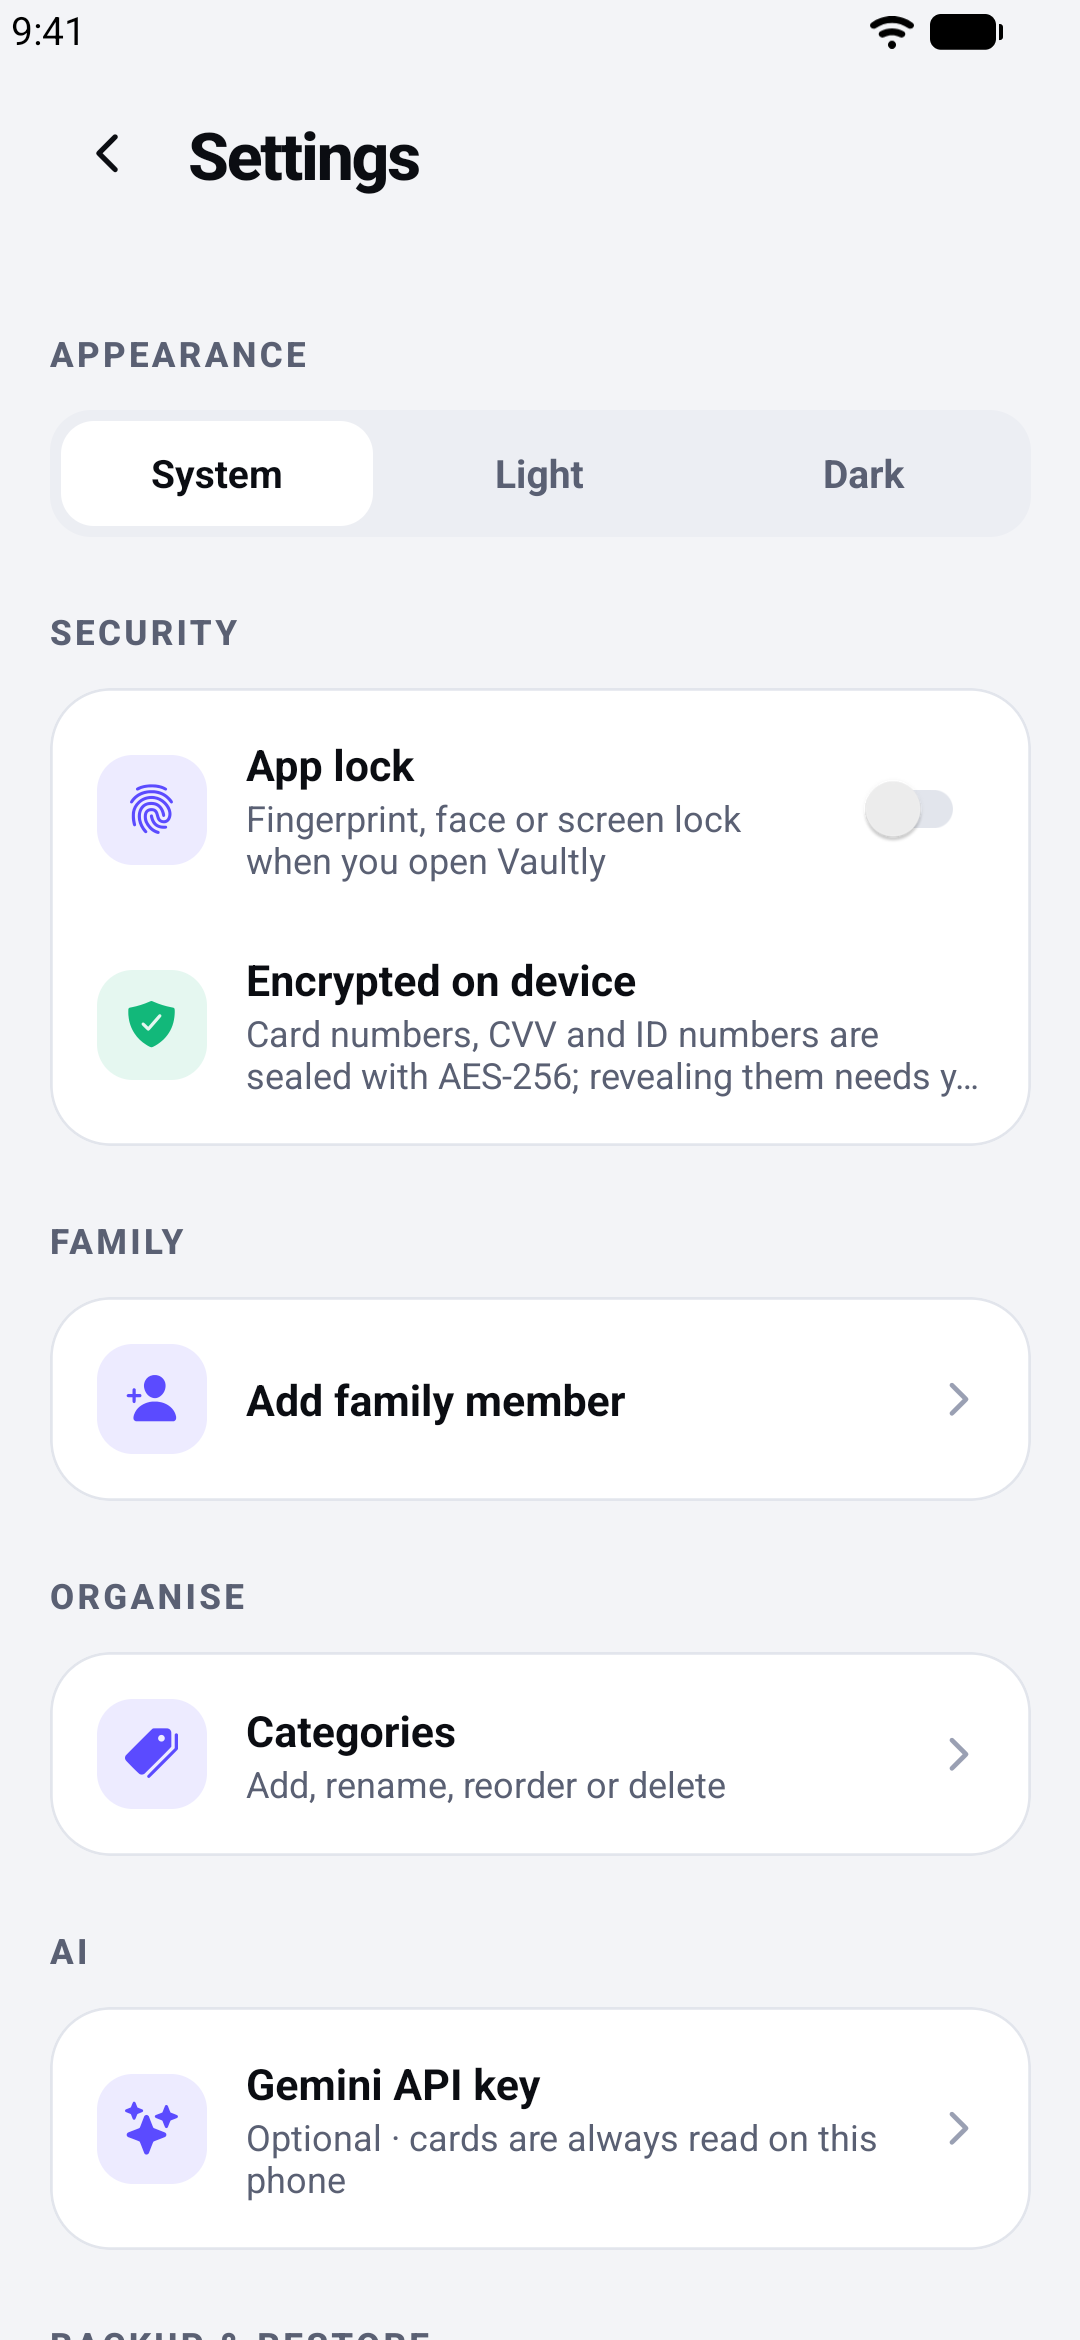
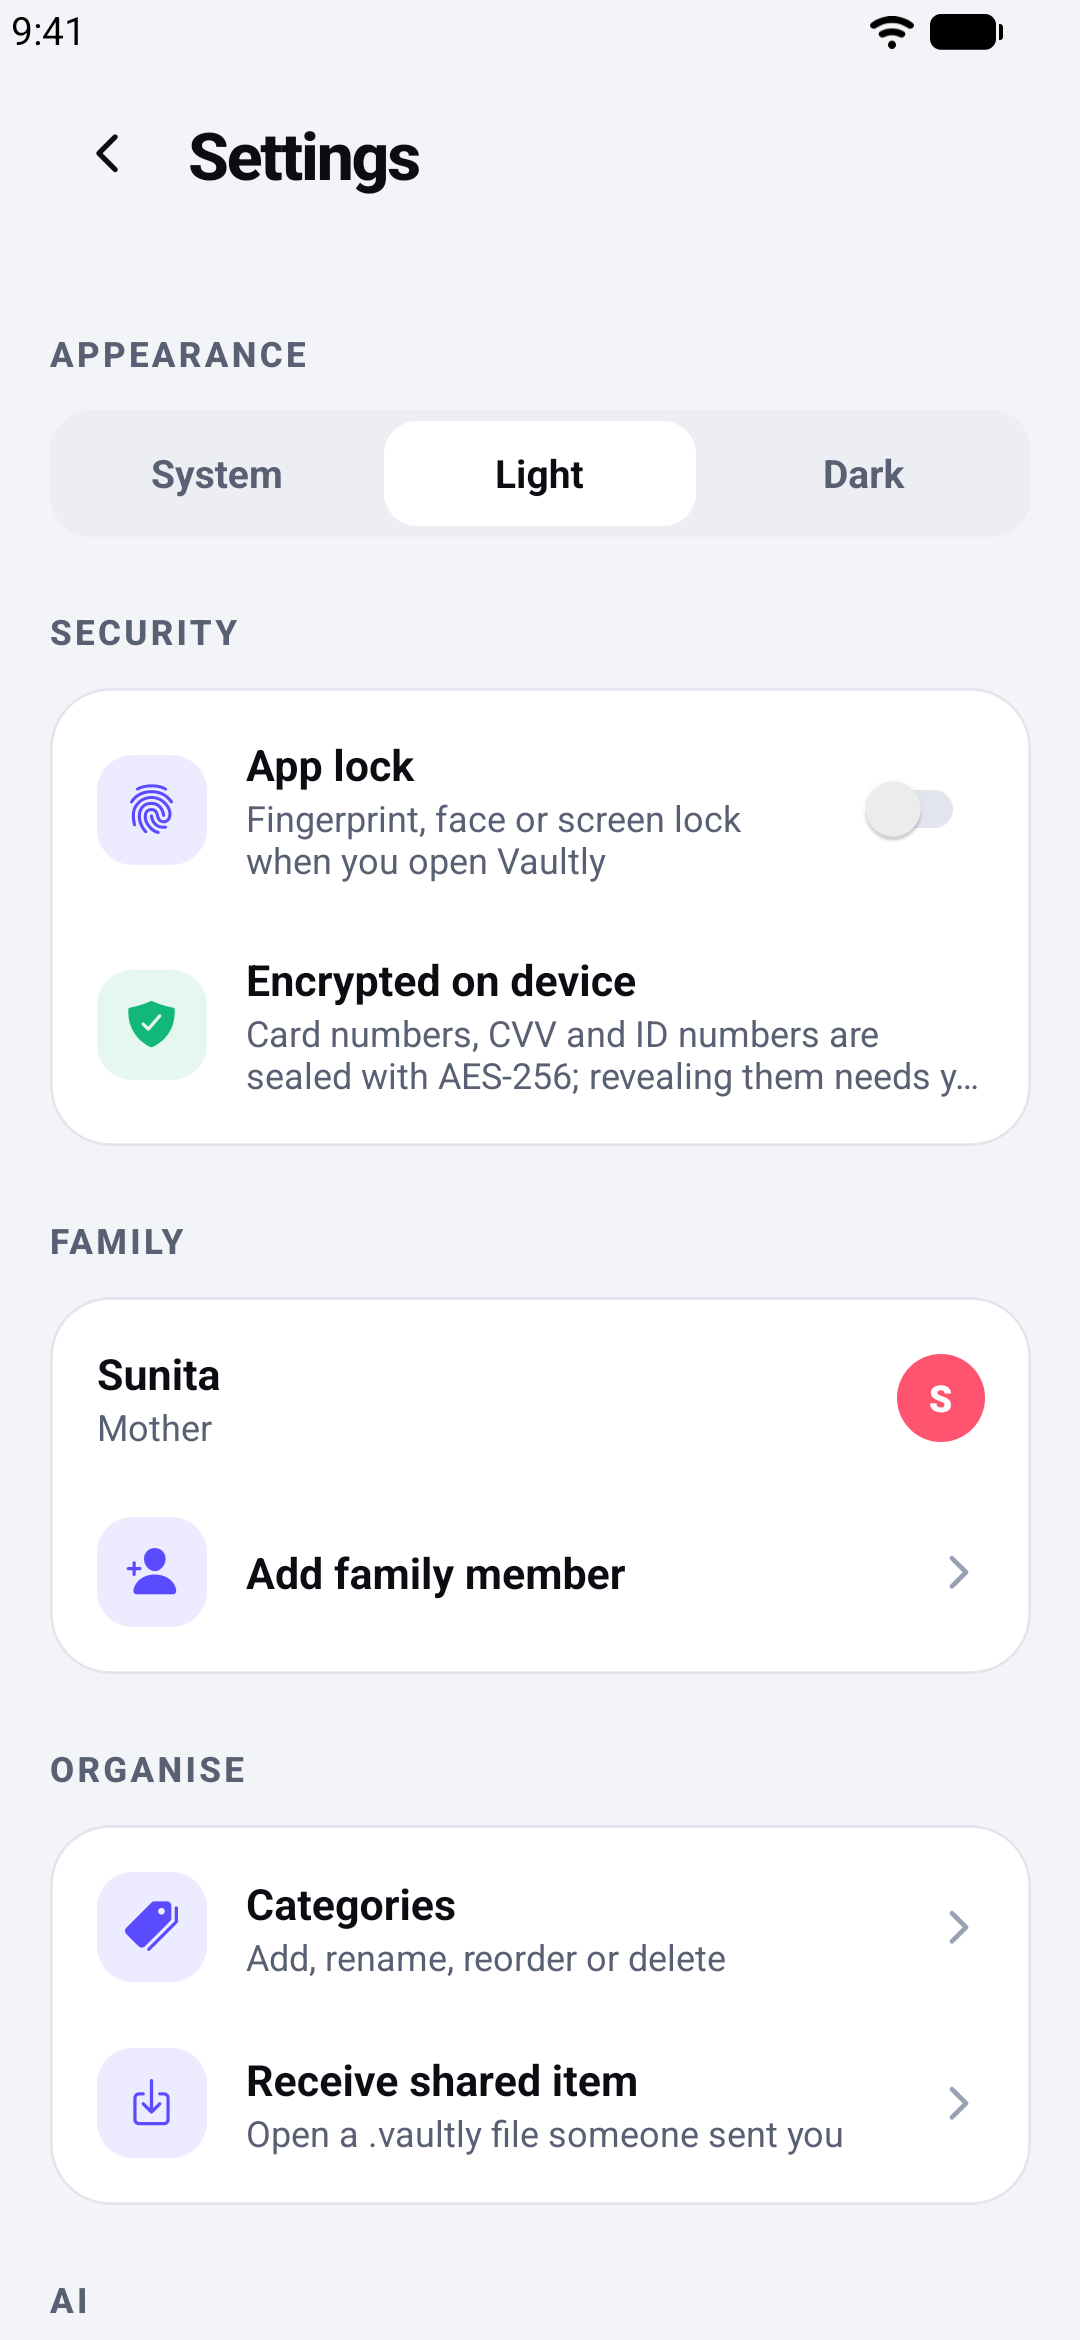
1.1.0: send to another Vaultly user, ID card preview, new screenshots

diff --git a/docs/privacy.html b/docs/privacy.html
@@ -52,6 +52,7 @@
 
 <h2>Sharing items</h2>
 <p>When you share a card or document, it goes only to the app you pick in the share menu. Payment cards are shared as text, with the number masked unless you choose otherwise, and never with the CVV.</p>
+<p><strong>Send to Vaultly user:</strong> the item, its files and its details are encrypted into a .vaultly file on your phone and go only to the app you pick in the share menu. With a code, the file can't be opened without it. Nothing passes through a Vaultly server. The receiving phone keeps the item until its auto-delete time (if you set one) or until they delete it; you can't remove it remotely.</p>
 
 <h2>Keeping and deleting your data</h2>
 <ul>

diff --git a/README.md b/README.md
@@ -62,6 +62,7 @@ Needs Android 7.0 or newer on a 64-bit (arm64) phone, which covers almost every 
 - Driving licence, RC, PAN, Aadhaar, voter ID, memberships and more, with the front and back photos
 - Every labelled detail is read from both sides: name, ID number, date of birth, address, blood group, validity and more; keep or discard each one
 - Flip the card, open the photo full size, copy any detail with a tap
+- **Press and hold** an ID card in the list for a quick big preview of both sides
 - ID numbers are encrypted and hidden until you tap the eye
 
 ### 📄 Documents
@@ -79,9 +80,17 @@ Needs Android 7.0 or newer on a 64-bit (arm64) phone, which covers almost every 
 - Add parents, partner and kids, each with their own cards and documents
 - Kept separate from yours everywhere; pick who an item belongs to when adding it
 
+### 📤 Send to another Vaultly user
+- Send an ID card, document or pay card to someone far away: **⋯ → Send to Vaultly user**, then share the `.vaultly` file on WhatsApp, Telegram, email or Quick Share
+- They tap the file, open it with Vaultly and add it in one tap: to themselves, a family member, or a new person such as a friend
+- **Nothing is lost:** original images and PDFs, every detail and the validity date arrive exactly as saved
+- **Auto-delete:** never, 1 hour, 24 hours, 7 days, 30 days or a date you pick. A glowing countdown shows on the item; when time runs out it's removed from their phone, even if it comes back from a backup
+- Protected by an 8-character code you send separately (or no code, your choice). Pay cards go with the last 4 digits unless you choose the full number
+- Timed items can't be re-shared and screenshots are blocked
+
 ### ✨ Ask Vaultly
 - Tap the glowing orb and ask in plain words: *"mom's Aadhaar number"*, *"Nova credit card"*, *"what expires soon"*, *"list all documents"*
-- Answers come as cards you can open, copy or share
+- Answers come as cards you can open, copy or share; tap ↻ to start a fresh chat
 - Worked out **on your phone**; your numbers and documents are never sent anywhere
 
 ### 💾 Backup
@@ -142,6 +151,17 @@ Needs Android 7.0 or newer on a 64-bit (arm64) phone, which covers almost every 
   <img src="screenshots/20-document-pdf.png" width="200" alt="PDF document" />
   <img src="screenshots/11-settings.png" width="200" alt="Settings" />
   <img src="screenshots/04-backup-chosen.png" width="200" alt="Backup folder chosen" />
+</p>
+
+### Send to another Vaultly user
+<p>
+  <img src="screenshots/33-send.png" width="200" alt="Send to Vaultly user" />
+  <img src="screenshots/34-send-code.png" width="200" alt="Code to open it" />
+  <img src="screenshots/35-receive.png" width="200" alt="Add shared item" />
+  <img src="screenshots/36-shared-timer.png" width="200" alt="Auto-delete countdown" />
+</p>
+<p>
+  <img src="screenshots/37-id-peek.png" width="200" alt="Press and hold an ID card to preview" />
 </p>
 
 ### Dark theme
@@ -228,6 +248,12 @@ No. Pay card photos are only used to read the details and are then deleted; the 
 <summary><b>Can I keep my family's cards too?</b></summary>
 
 Yes. Add members in the **Family** tab. Their cards and documents stay separate from yours, and you can ask for them by name or relation: *"dad's PAN"*.
+</details>
+
+<details>
+<summary><b>Can I send a document to someone else who uses Vaultly?</b></summary>
+
+Yes. Open it, tap **⋯ → Send to Vaultly user**, choose when it should auto-delete and whether it needs a code, and send the file on any chat app. They open it with Vaultly (or **Settings → Receive shared item**), enter the code and pick who it belongs to. Images, PDFs and every detail arrive exactly as you saved them. There's no server, so a sent item can't be taken back, so choose an auto-delete time instead.
 </details>
 
 <details>
